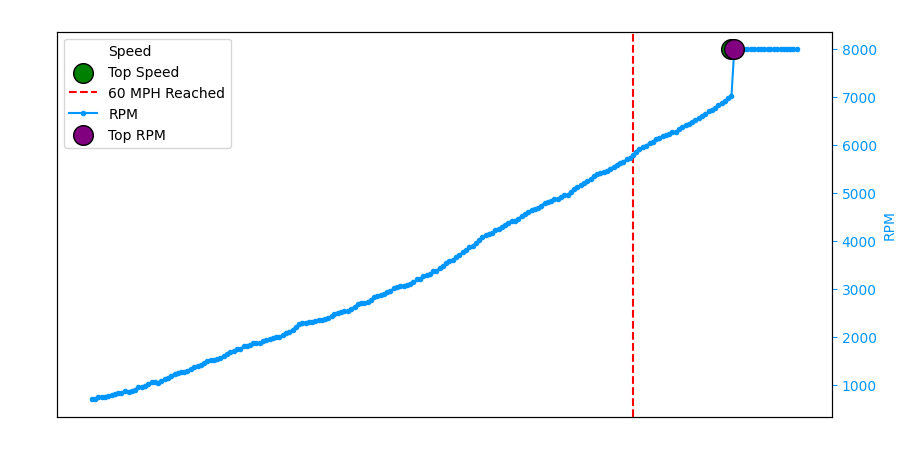
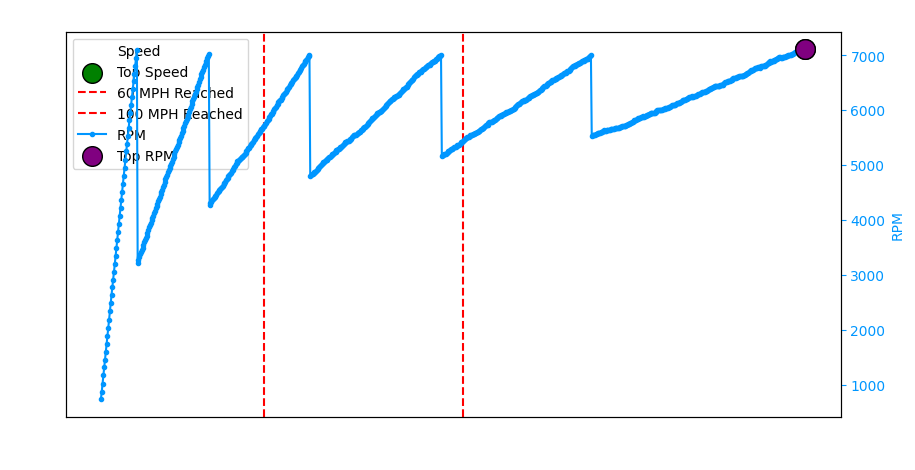
more realistic rpm and speed simulation

diff --git a/Dash/dash.py b/Dash/dash.py
@@ -502,16 +502,16 @@ def main():
 
         if DEV:
             # Define maximum speed
-            max_speed = 200
+            max_speed = 300
 
             # Define gear ratios for 6 gears
-            gear_ratios = [4.00, 3.00, 2.00, 1.50, 1.20, 1.00]
+            gear_ratios = [3.80, 2.10, 1.50, 1.20, 1.00, 0.80]
             
             # Determine current gear ratio
             current_ratio = gear_ratios[current_gear]
 
             # RPM calculation with some randomness to simulate fluctuations
-            rpm = random.randint(max(0, rpm - 30), min(rpm + 30, rpm_max))
+            rpm = random.randint(max(0, rpm - 10), min(rpm + 10, rpm_max))
 
             if tracking:
                 # Check if RPM exceeds shift point, shift up if possible
@@ -519,16 +519,17 @@ def main():
                     current_gear += 1
                     current_ratio = gear_ratios[current_gear]
                     # Adjust RPM for new gear, simulating the effect of shifting
-                    rpm = int(rpm * current_ratio / gear_ratios[current_gear - 1])
+                    rpm = int(rpm * (1 - (current_ratio/max(gear_ratios))))
 
                 # Increment RPM logarithmically for smooth progression
-                rpm_increment = math.log(1 + rpm / 100) * 10  # Scaling factor to control growth rate
+                rpm_increment = 10 * (current_ratio**2)
                 rpm = min(int(rpm + rpm_increment), rpm_max)  # Increment RPM with cap at max RPM
-
+                
                 if rpm < rpm_max:
-                    # Calculate speed based on RPM and gear ratio
-                    speed_increment = (rpm / rpm_max) * (current_ratio / max(gear_ratios)) # Control speed increase rate
-                    speed += speed_increment # Always increase speed
+                    speed_increment = (current_ratio / max(gear_ratios)) * .5
+
+                    # Increase speed
+                    speed += speed_increment
 
                     # Ensure speed does not exceed max_speed
                     speed = min(speed, max_speed)
